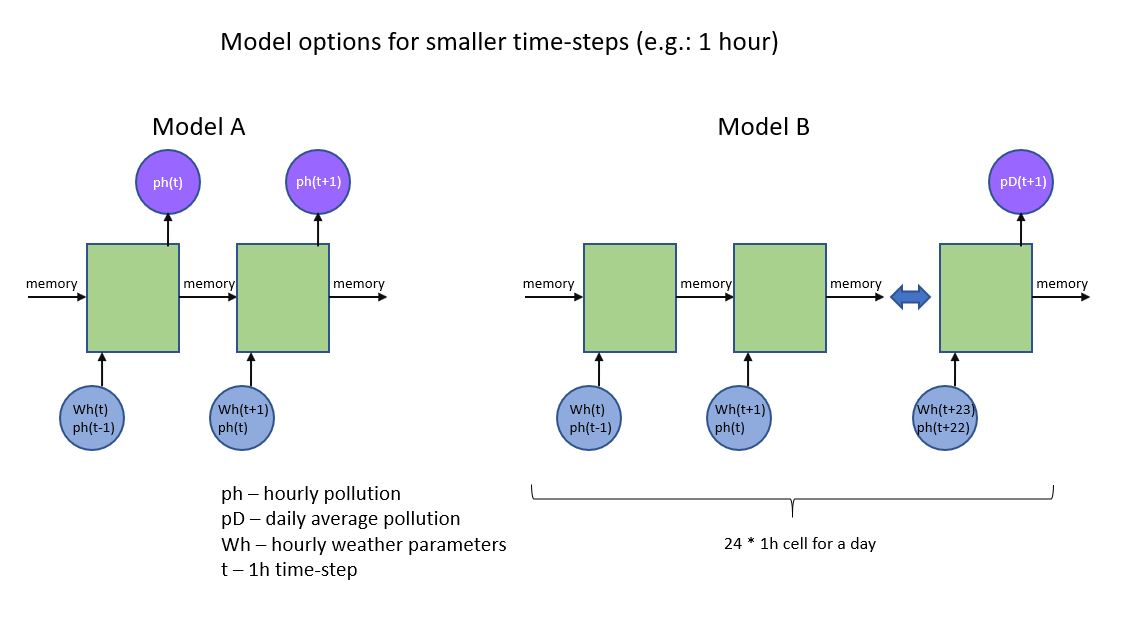
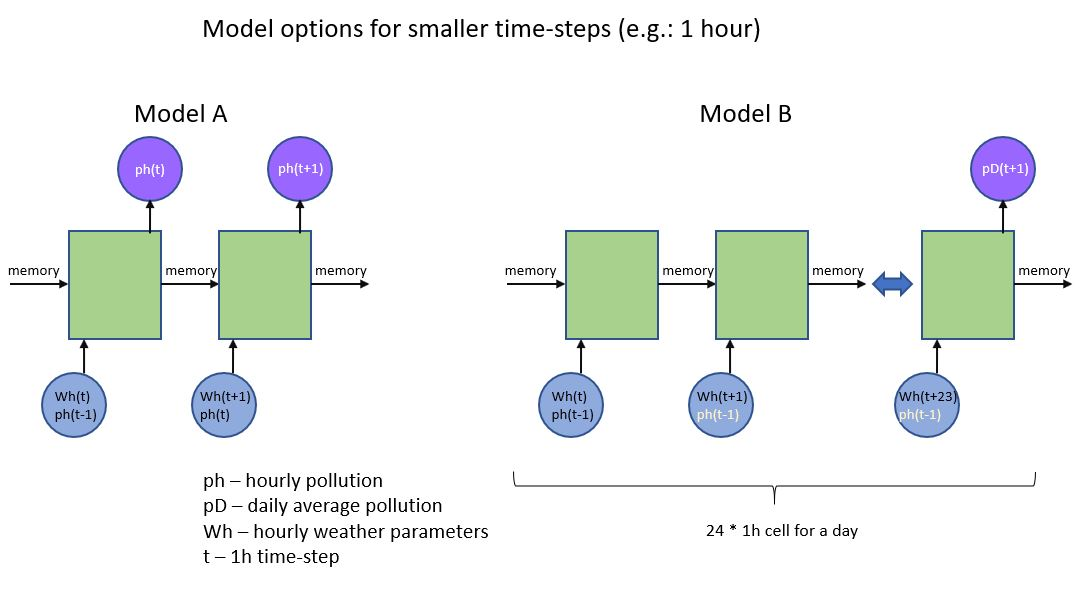
modelAB explained

diff --git a/README.md b/README.md
@@ -74,7 +74,7 @@ In time t we know the weather forecast for that time t, and we know the pollutio
 
 We used daily data, in our model one step is one day.
 
-![alt text](https://github.com/sinusgamma/Deep-learning-air-pollution-forecaster/blob/master/image/first_model_idea.JPG)
+![alt text](https://github.com/sinusgamma/Deep-learning-air-pollution-forecaster/blob/master/image/base_model.JPG)
 
 
 ### Model Performance
@@ -100,6 +100,24 @@ The day1 errors show what happens if we input our pollution concentration foreca
 ## How to improve?
 
 There are lots of ways to improve the model performance. Our input data could be better for training, we could use weather reanalysis and hourly data instead of daily. We didn't use hyperparameter optimization. It is possible to use input and forecast over an area, not only a station. We could connect our model with real forecast and check what the model predicts for the next day.
+
+### Model ideas for hourly steps
+
+In the image below we can see two possible way to use hourly input.
+
+Model A
+This is almost the same as our original model, but instead of daily steps it uses hourly steps.
+This model could give us hourly concentration forecast.
+
+Model B
+Here our input would be hourly data, but our label would be daily average air pollution concentration for the next day.
+
+Model A could predict every hour, but because every prediction would be an input of the next step, the error could be very large at the 24th step.
+Model B could predict only the daily average concentration (or the hourly 24 hours later), but it wouldn't need the earlier prediction of the model in every step, the new information would be only the hourly weather, after the first step we could even omit the pollution concentration input.
+
+There are other possible architectures which could improve the prediction, and it doesn't seem trivial which can be better. Best to try all that seems reasonable.
+
+![alt text](https://github.com/sinusgamma/Deep-learning-air-pollution-forecaster/blob/master/image/modelAB.JPG)
 
 
 ## License
